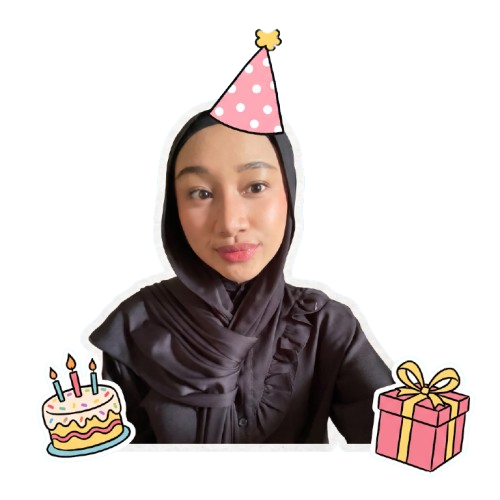
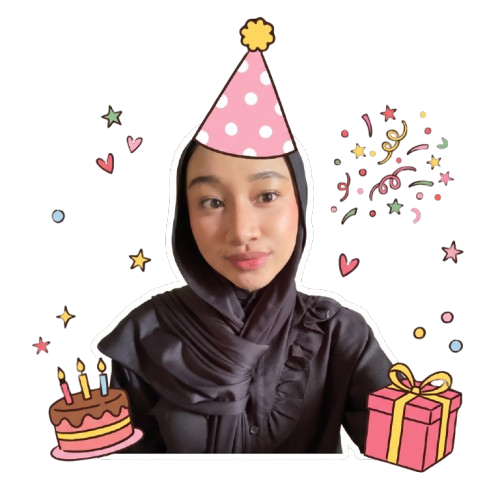
REVISI

diff --git a/index.html b/index.html
@@ -148,8 +148,8 @@
     <div id="pin-screen" style="display: flex;" class="active">
         <div class="pin-container glass-panel">
             <h2>Enter PIN</h2>
-            <p style="margin-bottom: 2px;">passwordnya tanggal + bulan jadian kita yaa.</p>
-            <p style="margin-top: 0; font-size: 0.5rem;"> (Awas aja kalau lupa!!)</p>
+            <p style="margin-bottom: 2px;">passwordnya tanggal + bulan lahir kamu yaa.</p>
+            <p style="margin-top: 0; font-size: 0.5rem;"> (Gamungkin lupa dong)</p>
             <input type="password" id="pin-input" maxlength="4" placeholder="****" inputmode="numeric" pattern="[0-9]*">
         </div>
     </div>
@@ -397,7 +397,7 @@
             <p class="typing-text" style="margin-top: 25px; margin-bottom: 15px;">
                 Di hari spesial kamu ini, aku cuma mau bilang, semoga kamu selalu ingat kalau kamu itu berharga dan
                 pantas mendapatkan banyak hal baik. kalau dipikir-pikir, lucu juga ya, kita pernah pacaran pas sd mana
-                lumayan lama 8/9 bulan, walaupun kita gatau selama pacarannya kayak gmna/ngapain aja hhe. lalu sempat
+                lumayan lama 8/9 bulan, walaupun kita gatau selama pacarannya kayak gimana/ngapain aja hhe. lalu sempet
                 berpisah dan akhirnya dipertemukan lagi. selama waktu itu, mungkin kita sama-sama menjalani kehidupan
                 dan punya cerita masing-masing, sampai akhirnya bisa saling kenal dan hadir lagi dalam cerita satu sama
                 lain seperti sekarang.
@@ -413,13 +413,6 @@
                 banyak hal berubah, semoga kita tetap jadi dua orang yang masih bisa saling sayang dan cinta satu sama
                 lain.
             </p>
-
-            <p class="typing-text" style="margin-bottom: 40px;">
-                Di hari spesial kamu ini, aku cuma mau bilang, semoga kamu selalu tahu kalau kamu itu berharga dan layak
-                dapetin banyak hal baik. Tetap jadi diri kamu sendiri, yang kadang nyebelin, kadang random, tapi tetap
-                jadi kamu yang aku kenal selama ini. Semoga di umur yang baru ini semuanya berjalan lebih baik buat
-                kamu, dan kalau nanti ada hari yang terasa berat, semoga selalu ada orang-orang yang bisa bikin kamu
-                ngerasa nggak sendirian.</p>
 
             <p class="typing-text" style="margin-bottom: 40px;">
                 selamat bertambah usia sayangg. semoga kamu selalu punya alasan buat senyum, dan semoga aku masih bisa
